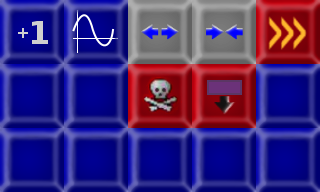
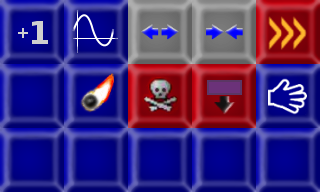
Fireball! Also, improved block explosions

Changed region(s): [[0.8125, 0.4062, 0.9688, 0.5938], [0.25, 0.375, 0.375, 0.5938], [0.3438, 0.1562, 0.375, 0.1875]]

diff --git a/level.py b/level.py
@@ -40,6 +40,7 @@ class Level(gameinstance.GameInstance):
 		# Bonus-related flags.
 		self.catch_n_hold = False
 		self.skyfall = False
+		self.fireball = False
 
 	def update(self):
 		"""Update game state."""
@@ -49,8 +50,15 @@ class Level(gameinstance.GameInstance):
 			i.update()
 
 		# Remove bricks that exploded at previous frame.
-		self.bricks = [x for x in self.bricks if x.brick_type != Brick.EXPLOSION_VICTIM]
-		
+		destroyed = len(self.bricks)
+		self.bricks = [x for x in self.bricks if x.brick_type != Brick.EXPLOSION_VICTIM or x.countdown > 0]
+		destroyed -= len(self.bricks)
+		self.score += destroyed * self.Score.BRICK_HIT
+
+		for i in self.bricks:
+			if i.brick_type == Brick.EXPLOSION_VICTIM:
+				i.countdown -= 1
+
 		# 2. Check for collisions.
 		#          WALLS BALL PALETTE BONUSES BRICKS
 		#   WALLS    0    1     1       1       0
@@ -100,18 +108,28 @@ class Level(gameinstance.GameInstance):
 			# Collision ball-brick confirmed.
 			hit_bricks.append( (i, c) )
 
-			prev_type = i.brick_type
-			i.handleCollision()
-			if i.brick_type == Brick.EMPTY:
-				if prev_type == Brick.EXPLOSIVE:
-					ei = set(self.explosionImpact(i))
-					for i in ei:
-						i.brick_type = Brick.EXPLOSION_VICTIM
-					#to_delete += ei
-					#scored += len(ei)
-				else:
-					to_delete.append(i)
-					scored += 1
+			if self.fireball:
+				i.brick_type = Brick.EXPLOSION_VICTIM
+				i.colour = None
+				ei = set(self.explosionImpact(i))
+				for j in ei:
+					j.brick_type = Brick.EXPLOSION_VICTIM
+					j.colour = None
+			else:
+				prev_type = i.brick_type
+				i.handleCollision()
+
+				if i.brick_type == Brick.EMPTY:
+					if prev_type == Brick.EXPLOSIVE:
+						ei = set(self.explosionImpact(i))
+						for j in ei:
+							j.brick_type = Brick.EXPLOSION_VICTIM
+							j.colour = None
+						#to_delete += ei
+						#scored += len(ei)
+					else:
+						to_delete.append(i)
+						scored += 1
 			
 			if len(hit_bricks) > 1:
 				break
@@ -140,9 +158,9 @@ class Level(gameinstance.GameInstance):
 			# Remove destroyed bricks.
 			self.bricks = [x for x in self.bricks if x not in to_delete]
 
-			# Check whether player destroyed all the blocks.
-			if not len([x for x in self.bricks if x.brick_type != Brick.INVULNERABLE]):
-				self.performBreak(self.NEXT_LEVEL)
+		# Check whether player destroyed all the blocks.
+		if not len([x for x in self.bricks if x.brick_type != Brick.INVULNERABLE]):
+			self.performBreak(self.NEXT_LEVEL)
 
 		# 2d)
 		p_x = self.palette.position.x
@@ -246,7 +264,7 @@ class Level(gameinstance.GameInstance):
 		elif bonus_type == Bonus.STRIKE_THROUGH:
 			pass
 		elif bonus_type == Bonus.FIREBALL:
-			pass
+			self.fireball = True
 		elif bonus_type == Bonus.DEATH:
 			ss += self.Score.BAD_PICKUP
 			self.performBreak(self.DEATH)
@@ -259,8 +277,8 @@ class Level(gameinstance.GameInstance):
 
 		# If ball is tied to the palette, adjust ball's position.
 		if prev_palette_width != Palette.SIZE.x and self.ball.binding:
-			a = self.ball.position.x - self.palette.position.x
-			self.ball.position.x = self.palette.position.x + Palette.SIZE.x / prev_palette_width * a
+			a = (self.ball.position.x + self.ball.RADIUS - self.palette.position.x) / prev_palette_width
+			self.ball.offset = a * Palette.SIZE.x - self.ball.RADIUS
 	
 	def handleBallPaletteCollision(self, collision_type):
 		if self.skyfall:
@@ -321,6 +339,7 @@ class Level(gameinstance.GameInstance):
 	def performBreak(self, reason):
 		"""Either completed level or death."""
 		self.skyfall = False
+		self.fireball = False
 		self.catch_n_hold = False
 		self.fading = True
 		self.break_reason = reason

diff --git a/gameobject.py b/gameobject.py
@@ -46,6 +46,7 @@ class Brick(GameObject):
 		super().__init__(position)
 		self.brick_type = brick_type
 		self.colour = colour
+		self.countdown = 10
 
 	def handleCollision(self):
 		"""React to ball collision."""
@@ -213,12 +214,12 @@ class Bonus(PhysicalObject):
 	types = {
 		EXTRA_LIFE       : Type(6,  (0, 0, BONUS_SIZE, BONUS_SIZE)),
 		TECH_SUPPORT     : Type(0, (BONUS_SIZE, 0, BONUS_SIZE, BONUS_SIZE)),
-		WIDER_PALETTE    : Type(30, (2*BONUS_SIZE, 0, BONUS_SIZE, BONUS_SIZE)),
-		NARROWER_PALETTE : Type(30, (3*BONUS_SIZE, 0, BONUS_SIZE, BONUS_SIZE)),
+		WIDER_PALETTE    : Type(16, (2*BONUS_SIZE, 0, BONUS_SIZE, BONUS_SIZE)),
+		NARROWER_PALETTE : Type(16, (3*BONUS_SIZE, 0, BONUS_SIZE, BONUS_SIZE)),
 		SUPER_SPEED      : Type(12, (4*BONUS_SIZE, 0, BONUS_SIZE, BONUS_SIZE)),
 		STRIKE_THROUGH   : Type(0, (0, BONUS_SIZE, BONUS_SIZE, BONUS_SIZE)),
-		FIREBALL         : Type(0, (BONUS_SIZE, BONUS_SIZE, BONUS_SIZE, BONUS_SIZE)),
-		DEATH            : Type(20, (2*BONUS_SIZE, BONUS_SIZE, BONUS_SIZE, BONUS_SIZE)),
+		FIREBALL         : Type(10, (BONUS_SIZE, BONUS_SIZE, BONUS_SIZE, BONUS_SIZE)),
+		DEATH            : Type(16, (2*BONUS_SIZE, BONUS_SIZE, BONUS_SIZE, BONUS_SIZE)),
 		SKYFALL          : Type(8,  (3*BONUS_SIZE, BONUS_SIZE, BONUS_SIZE, BONUS_SIZE)),
 		CATCH_N_HOLD     : Type(8,  (4*BONUS_SIZE, BONUS_SIZE, BONUS_SIZE, BONUS_SIZE))
 	}

diff --git a/dev.py b/dev.py
@@ -19,7 +19,9 @@ def handleEvent(event, game):
 		elif key == sdl2.SDLK_UP:  game.ball.velocity.y -= 0.5;
 		elif key == sdl2.SDLK_DOWN:  game.ball.velocity.y += 0.5;
 		elif key == sdl2.SDLK_LEFT:  game.ball.velocity.x -= 0.5;
-		elif key == sdl2.SDLK_RIGHT:  game.ball.velocity.x += 0.5;		
+		elif key == sdl2.SDLK_RIGHT:  game.ball.velocity.x += 0.5;
+		elif key == sdl2.SDLK_p:
+			game.bonuses.append( gameobject.Bonus(vec2(100,100)) )
 
 def drawGrid(renderer, color=(0x44, 0x44, 0x44, 0xff)):
 	renderer.color = color

diff --git a/constants.py b/constants.py
@@ -22,7 +22,7 @@ LOWER_MARGIN = BRICKSIZE.y * 2
 BONUS_SIZE = 64
 
 """Probability of bonus spawning after a brick is destroyed."""
-BONUS_SPAWN_CHANCE = 0.225
+BONUS_SPAWN_CHANCE = 0.333
 
 """Duration of a single simulation step."""
 DELTA_T = 0.8
